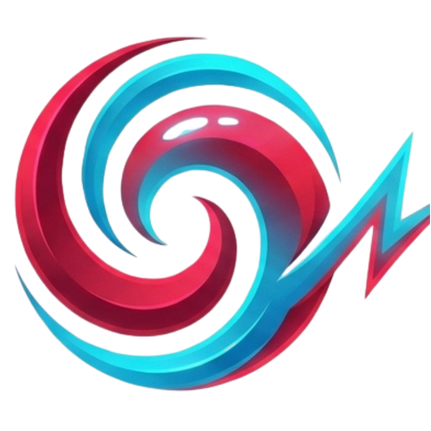
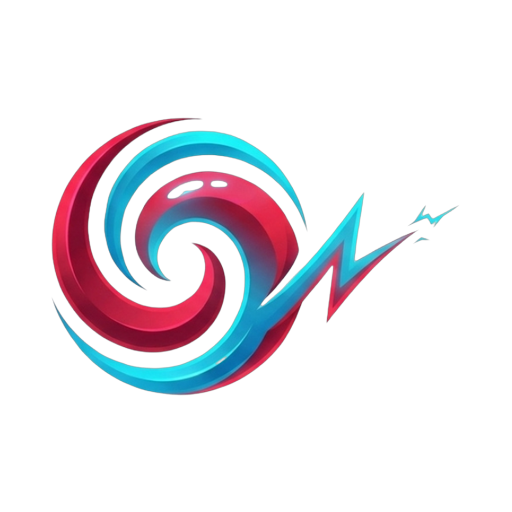
fix(ecg): ajusta margem de picos, rolagem de grade e novo icone com zona segura

diff --git a/ui/src/plot.rs b/ui/src/plot.rs
@@ -353,7 +353,29 @@ impl Plotter {
                     // Parâmetros da grade milimetrada isotrópica (40ms x 0.1mV)
                     // Janela de 500 amostras a cada 5ms = 2500ms totais (62.5 quadradinhos de 40ms)
                     let s = width / 62.5; // Tamanho de 1 quadradinho em pixels
-                    let y_zero = height - ((0.0 - min_y) / range_y) * height;
+
+                    // Posição da isoline (0 mV) no canvas.
+                    // Em modo ECG isotrópico, y_zero é calculado para garantir que os picos caibam:
+                    // - Pico positivo máximo esperado: ~1.10 mV (R em V5 com kr=1.45 × 0.75)
+                    // - Pico negativo máximo esperado: ~0.25 mV (S em V1 com ks=1.30 × 0.17)
+                    // - Margem: 10% de 's' em cada lado
+                    let y_zero = if is_ecg_grid {
+                        let peak_pos_mv = 1.15_f64; // mV acima da isoline (headroom positivo)
+                        let peak_neg_mv = 0.30_f64; // mV abaixo da isoline (headroom negativo)
+                        let margin_px = s * 0.5;    // margem extra em pixels (0.5 quadradinhos)
+                        let px_above = peak_pos_mv * 10.0 * s + margin_px;
+                        let px_below = peak_neg_mv * 10.0 * s + margin_px;
+                        let total_px = px_above + px_below;
+                        if total_px <= height {
+                            // Há espaço suficiente: posiciona a isoline exatamente
+                            px_above
+                        } else {
+                            // Canvas muito pequeno: escala para caber (mantém proporção acima/abaixo)
+                            height * (px_above / total_px)
+                        }
+                    } else {
+                        height - ((0.0 - min_y) / range_y) * height
+                    };
 
                     // Mapeamento vertical de voltagem -> pixel
                     let val_to_y = |val: f64| -> f64 {
@@ -375,11 +397,18 @@ impl Plotter {
 
                             // Offset horizontal da grade para rolar junto com o traçado.
                             // 1 quadradinho = 8 amostras (40ms a 5ms/amostra).
-                            // O offset em pixels avança 1 'dx' por amostra, com período de 's' pixels.
+                            // A grade SÓ começa a rolar quando o buffer está cheio e samples
+                            // começam a ser descartados (pushed > capacity). Antes disso, fica parada.
                             let grid_offset_x = match self.mode {
                                 ViewMode::Rolling => {
-                                    // No modo Rolling, a grade rola com o total de amostras recebidas
-                                    (self.total_pushed as f64 * dx).rem_euclid(s)
+                                    if self.total_pushed <= self.capacity as u64 {
+                                        // Buffer ainda enchendo: grade estática
+                                        0.0
+                                    } else {
+                                        // Buffer cheio: cada sample extra desloca a grade
+                                        let overflow = self.total_pushed - self.capacity as u64;
+                                        (overflow as f64 * dx).rem_euclid(s)
+                                    }
                                 }
                                 ViewMode::Sweep | ViewMode::TriggeredAuto | ViewMode::TriggeredSingle => {
                                     // Nos modos com caneta, ancora a grade na posição atual da caneta
@@ -391,19 +420,25 @@ impl Plotter {
                                 }
                             };
 
-                            // 1. Linhas verticais isotrópicas de tempo (a cada s = 40ms)
-                            // Começamos em x negativo para cobrir a borda esquerda com o offset
-                            let start_x = -s + (s - grid_offset_x).rem_euclid(s);
-                            let mut x = start_x;
-                            // Índice relativo para determinar quadratão (200ms = 5 quadradinhos)
-                            // A conta de "qual múltiplo" usa total_pushed para manter coerência
+                            // phase_count para determinar qual linha é quadratão (200ms)
                             let phase_count = match self.mode {
-                                ViewMode::Rolling => self.total_pushed,
+                                ViewMode::Rolling => {
+                                    if self.total_pushed <= self.capacity as u64 {
+                                        0u64
+                                    } else {
+                                        self.total_pushed - self.capacity as u64
+                                    }
+                                }
                                 _ => self.head_idx as u64,
                             };
                             // k_base: quantos quadradinhos inteiros foram "consumidos" até o início da janela
                             let k_base_offset = ((phase_count as f64 * dx / s).floor() as i64).rem_euclid(5) as usize;
                             let mut k_rel = 0usize;
+
+                            // 1. Linhas verticais isotrópicas de tempo (a cada s = 40ms)
+                            // Começamos em x negativo para cobrir a borda esquerda com o offset
+                            let start_x = -s + (s - grid_offset_x).rem_euclid(s);
+                            let mut x = start_x;
                             while x <= width + 1.0 {
                                 ctx.begin_path();
                                 // k_mod: posição relativa no ciclo de 5 quadradinhos (0 = quadratão)

diff --git a/CHANGELOG.md b/CHANGELOG.md
@@ -6,6 +6,7 @@
   - (ui) adicionar suporte a multiplas derivacoes de ECG e grade milimetrada
 
 ### Bug Fixes
+  - (ecg) ajusta margem de picos, rolagem de grade e novo icone com zona segura
   - (ecg) corrige amplitude e grade dinamica do ecg
 
 ## Previous Releases
